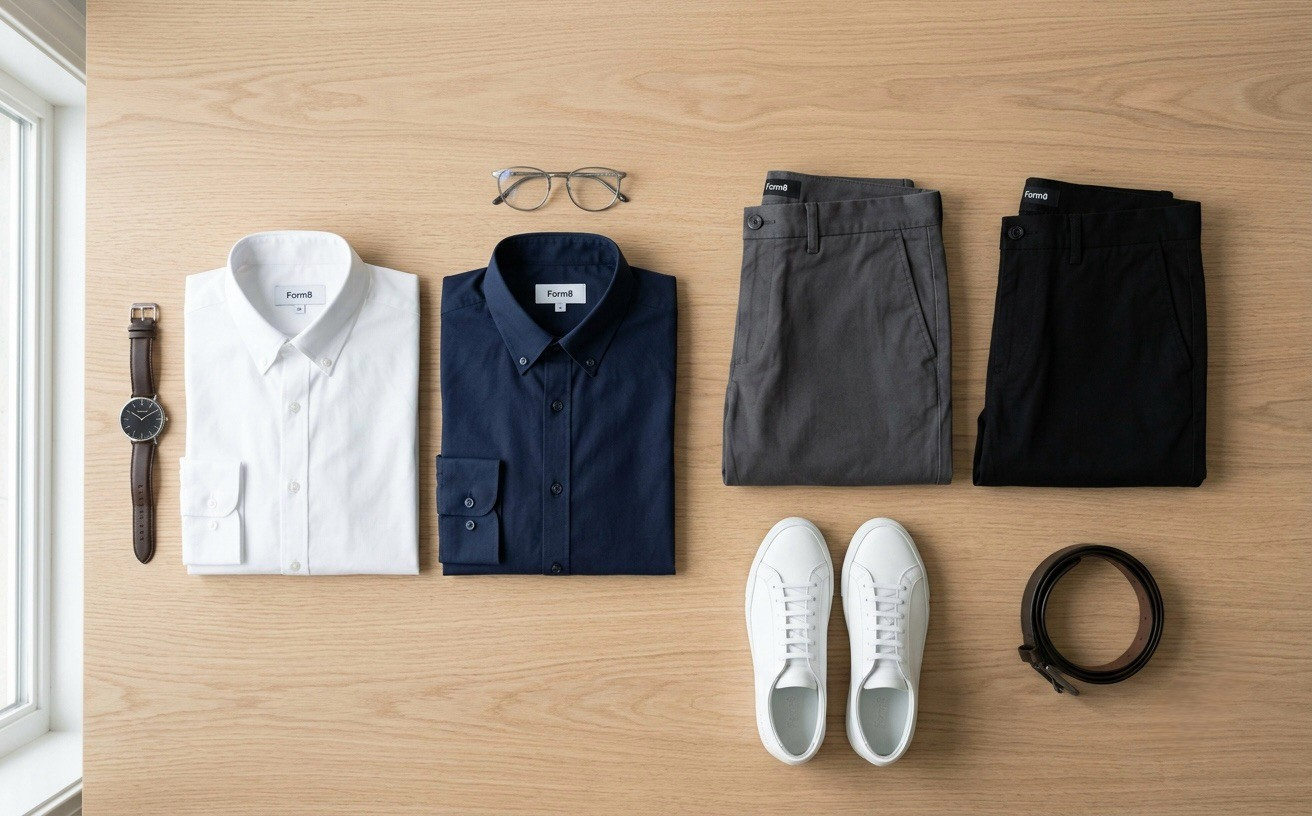
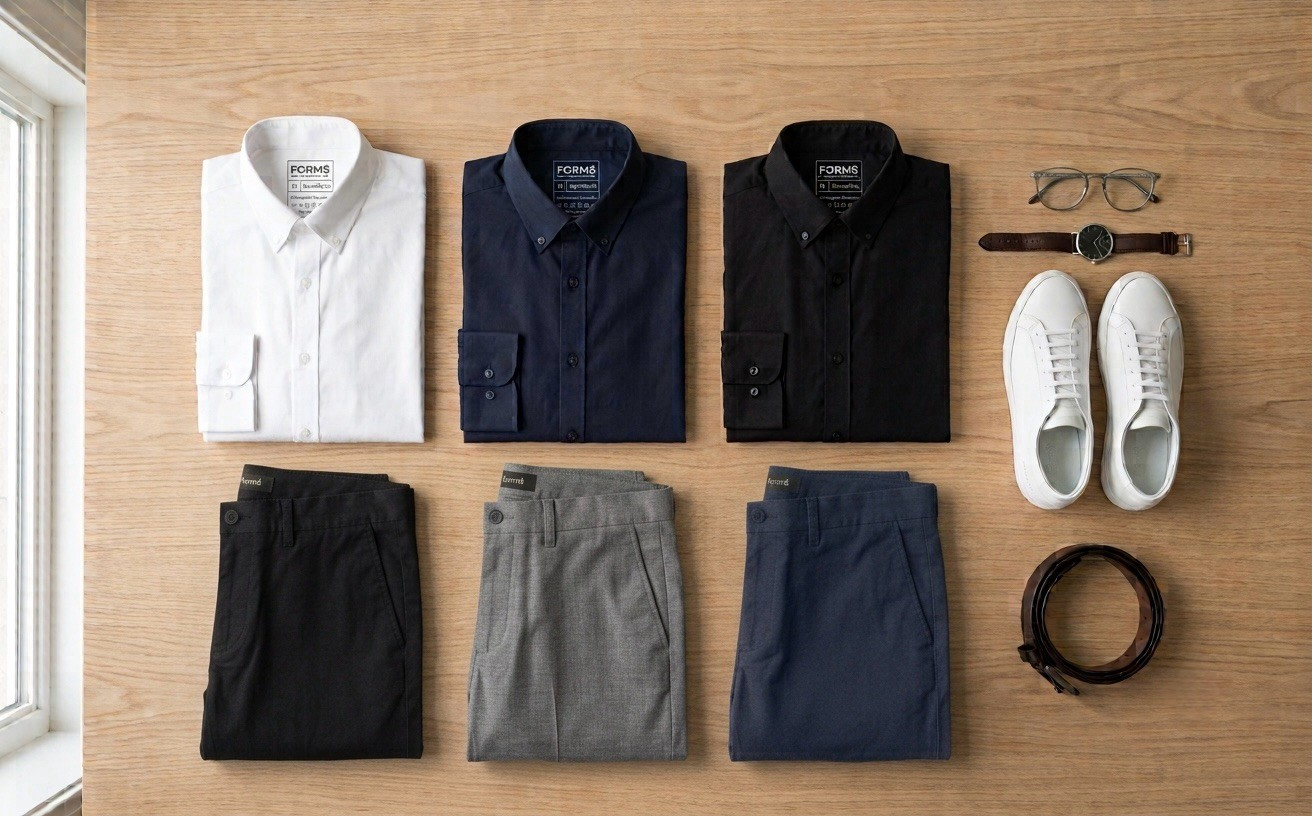
6 SKU + clarity + photos

diff --git a/lib/products.ts b/lib/products.ts
@@ -12,10 +12,14 @@ export const SHIRT_SIZES = ["S", "M", "L", "XL"] as const;
 export const PANT_SIZES = ["28", "30", "32", "34"] as const;
 
 export const PRODUCTS: Product[] = [
+  // เสื้อเชิ้ต 3 สี
   { id: "shirt-white", th: "เสื้อเชิ้ต Easy Iron — สีขาว", en: "White Shirt", price: 690, was: 890, sizes: [...SHIRT_SIZES] },
   { id: "shirt-navy", th: "เสื้อเชิ้ต Easy Iron — สีกรมท่า", en: "Navy Shirt", price: 690, was: 890, sizes: [...SHIRT_SIZES] },
+  { id: "shirt-black", th: "เสื้อเชิ้ต Easy Iron — สีดำ", en: "Black Shirt", price: 690, was: 890, sizes: [...SHIRT_SIZES] },
+  // กางเกงสแล็ค 3 สี
   { id: "pants-black", th: "กางเกงสแล็ค Smart Fit — สีดำ", en: "Black Trousers", price: 690, was: 890, sizes: [...PANT_SIZES] },
   { id: "pants-grey", th: "กางเกงสแล็ค Smart Fit — สีเทาเข้ม", en: "Dark Grey Trousers", price: 690, was: 890, sizes: [...PANT_SIZES] },
+  { id: "pants-navy", th: "กางเกงสแล็ค Smart Fit — สีกรมท่า", en: "Navy Trousers", price: 690, was: 890, sizes: [...PANT_SIZES] },
 ];
 
 // คงไว้เผื่อโค้ดเก่าอ้างอิง (ค่าเริ่มต้น = ไซส์เสื้อ)

diff --git a/components/Pixels.tsx b/components/Pixels.tsx
@@ -5,9 +5,19 @@ export default function Pixels() {
   const ga4 = process.env.NEXT_PUBLIC_GA4_ID;
   const meta = process.env.NEXT_PUBLIC_META_PIXEL_ID;
   const tiktok = process.env.NEXT_PUBLIC_TIKTOK_PIXEL_ID;
+  const clarity = process.env.NEXT_PUBLIC_CLARITY_ID;
 
   return (
     <>
+      {/* Microsoft Clarity — heatmap + session recording */}
+      {clarity && (
+        <Script id="ms-clarity" strategy="afterInteractive">
+          {`(function(c,l,a,r,i,t,y){c[a]=c[a]||function(){(c[a].q=c[a].q||[]).push(arguments)};
+            t=l.createElement(r);t.async=1;t.src="https://www.clarity.ms/tag/"+i;
+            y=l.getElementsByTagName(r)[0];y.parentNode.insertBefore(t,y);})(window,document,"clarity","script","${clarity}");`}
+        </Script>
+      )}
+
       {/* Google Analytics 4 */}
       {ga4 && (
         <>
